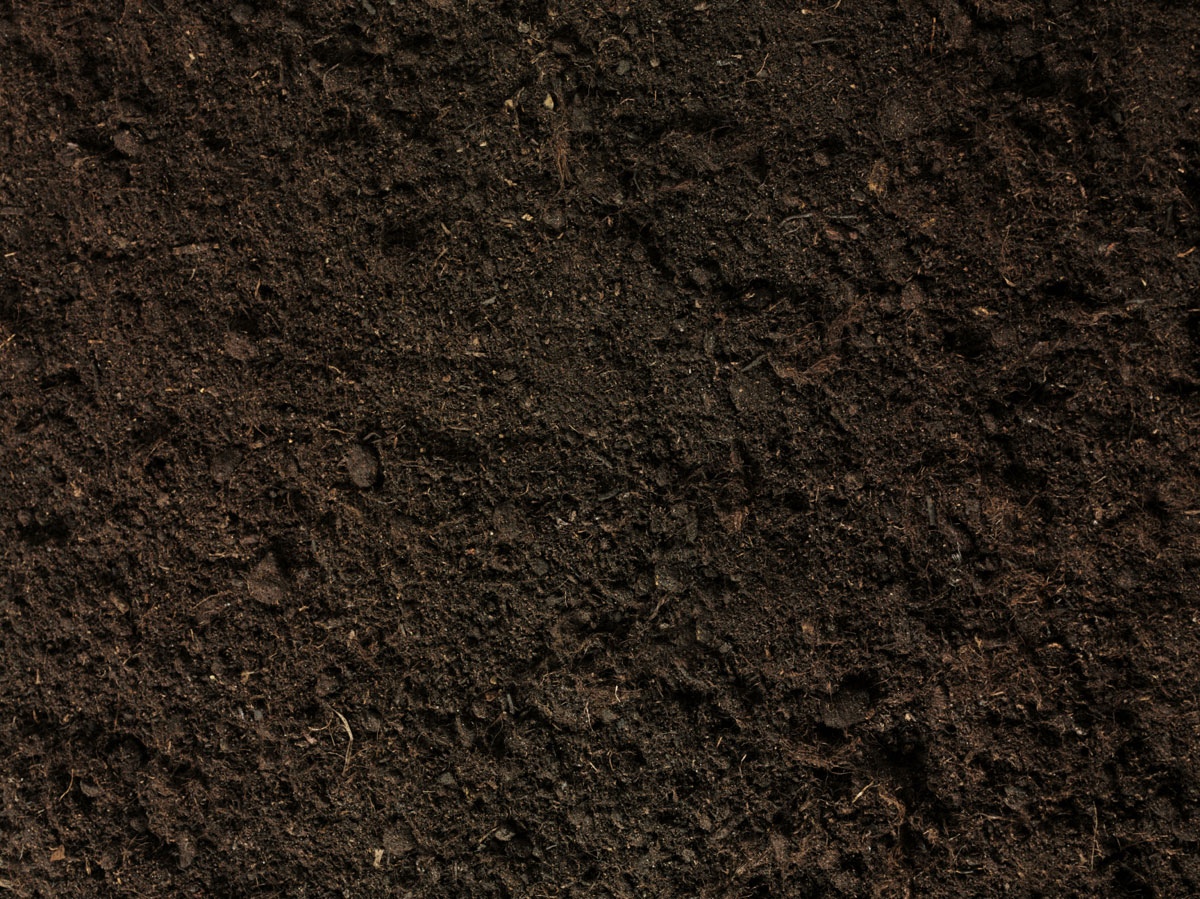
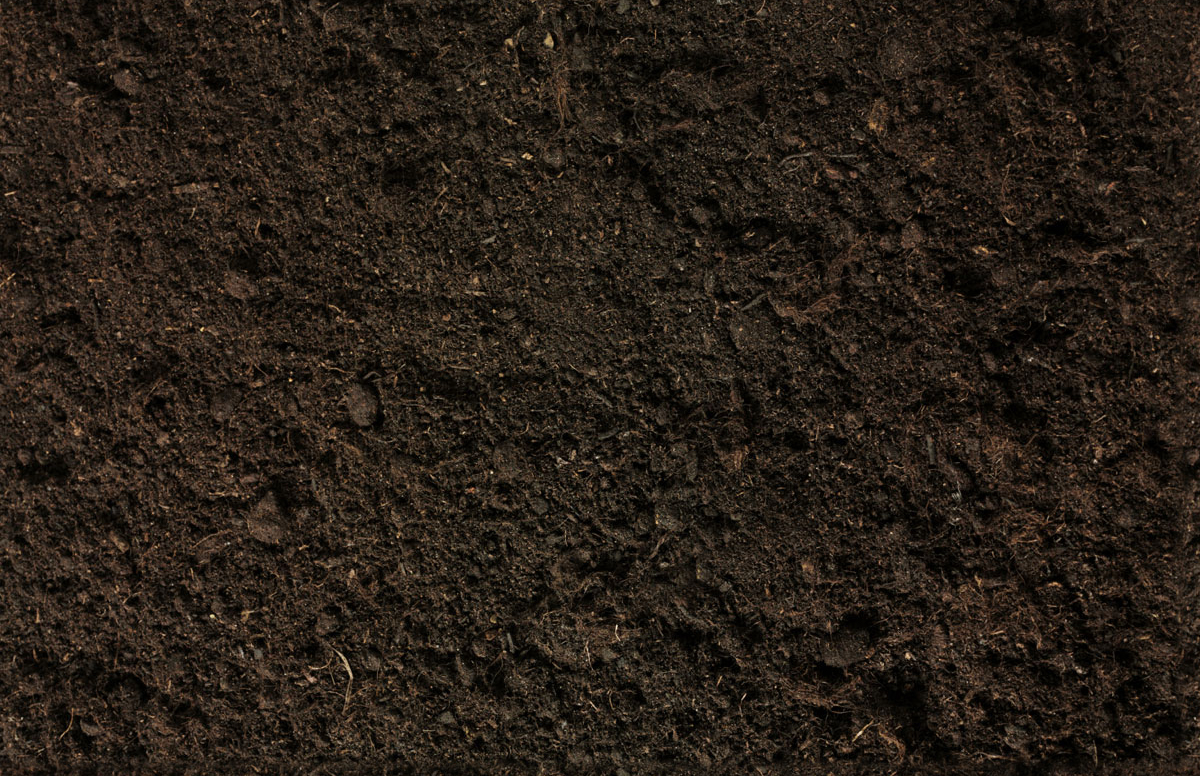
content for survivors section

diff --git a/css/style.css b/css/style.css
@@ -71,7 +71,7 @@ html {
   font-family: sans-serif;
 }
 
-.mono, pre, code, tt, body.markup-elements article.element .example .markup + .show-source, #tools .inner #all-examples #tools-examples article .syntaxhighlighter .gutter, #tools .inner #all-examples #tools-examples article .syntaxhighlighter .container code, #tools .inner #all-examples #tools-examples article .syntaxhighlighter #learn .inner code, #learn #tools .inner #all-examples #tools-examples article .syntaxhighlighter .inner code, #tools .inner #all-examples #tools-examples article .syntaxhighlighter .inner code, #tools .inner #all-examples #tools-examples article .syntaxhighlighter #survivors .inner code, #survivors #tools .inner #all-examples #tools-examples article .syntaxhighlighter .inner code, #tools .inner #all-examples #tools-examples article .syntaxhighlighter #start .inner code, #start #tools .inner #all-examples #tools-examples article .syntaxhighlighter .inner code {
+.mono, pre, code, tt, body.markup-elements article.element .example .markup + .show-source, #tools .inner #all-examples #tools-examples article .syntaxhighlighter .gutter, #tools .inner #all-examples #tools-examples article .syntaxhighlighter .container code, #tools .inner #all-examples #tools-examples article .syntaxhighlighter #learn .inner code, #learn #tools .inner #all-examples #tools-examples article .syntaxhighlighter .inner code, #tools .inner #all-examples #tools-examples article .syntaxhighlighter .inner code, #tools .inner #all-examples #tools-examples article .syntaxhighlighter #survivors .inner code, #survivors #tools .inner #all-examples #tools-examples article .syntaxhighlighter .inner code, #tools .inner #all-examples #tools-examples article .syntaxhighlighter #prepared .inner code, #prepared #tools .inner #all-examples #tools-examples article .syntaxhighlighter .inner code {
   font-family: Consolas, Menlo, Monaco, Lucida Console, Liberation Mono, DejaVu Sans Mono, Bitstream Vera Sans Mono, Courier New, monospace, serif;
 }
 
@@ -965,13 +965,13 @@ body.markup-elements article.element .example .markup + .show-source + p {
   clear: both;
 }
 
-.container, #learn .inner, #tools .inner, #survivors .inner, #start .inner {
+.container, #learn .inner, #tools .inner, #survivors .inner, #prepared .inner {
   *zoom: 1;
   margin: auto;
   width: 994px;
   max-width: 100%;
 }
-.container:after, #learn .inner:after, #tools .inner:after, #survivors .inner:after, #start .inner:after {
+.container:after, #learn .inner:after, #tools .inner:after, #survivors .inner:after, #prepared .inner:after {
   content: "\0020";
   display: block;
   height: 0;
@@ -999,7 +999,8 @@ header#page-header {
   position: relative;
   padding-top: 372px;
   padding-bottom: 248px;
-  background-image: url('images/dirt.jpg?1300250432');
+  background-image: url('images/dirt.jpg?1307509169');
+  background-position: top center;
   -moz-box-shadow: 0px 2px 2px rgba(0, 0, 0, 0.4), 0px 8px 8px rgba(0, 0, 0, 0.2);
   -webkit-box-shadow: 0px 2px 2px rgba(0, 0, 0, 0.4), 0px 8px 8px rgba(0, 0, 0, 0.2);
   -o-box-shadow: 0px 2px 2px rgba(0, 0, 0, 0.4), 0px 8px 8px rgba(0, 0, 0, 0.2);
@@ -1630,14 +1631,14 @@ header#page-header h2 {
 #tools .inner #all-examples #tools-examples article .syntaxhighlighter .toolbar {
   display: none;
 }
-#tools .inner #all-examples #tools-examples article .syntaxhighlighter .gutter .line, #tools .inner #all-examples #tools-examples article .syntaxhighlighter .container .line, #tools .inner #all-examples #tools-examples article .syntaxhighlighter #learn .inner .line, #learn #tools .inner #all-examples #tools-examples article .syntaxhighlighter .inner .line, #tools .inner #all-examples #tools-examples article .syntaxhighlighter .inner .line, #tools .inner #all-examples #tools-examples article .syntaxhighlighter #survivors .inner .line, #survivors #tools .inner #all-examples #tools-examples article .syntaxhighlighter .inner .line, #tools .inner #all-examples #tools-examples article .syntaxhighlighter #start .inner .line, #start #tools .inner #all-examples #tools-examples article .syntaxhighlighter .inner .line {
+#tools .inner #all-examples #tools-examples article .syntaxhighlighter .gutter .line, #tools .inner #all-examples #tools-examples article .syntaxhighlighter .container .line, #tools .inner #all-examples #tools-examples article .syntaxhighlighter #learn .inner .line, #learn #tools .inner #all-examples #tools-examples article .syntaxhighlighter .inner .line, #tools .inner #all-examples #tools-examples article .syntaxhighlighter .inner .line, #tools .inner #all-examples #tools-examples article .syntaxhighlighter #survivors .inner .line, #survivors #tools .inner #all-examples #tools-examples article .syntaxhighlighter .inner .line, #tools .inner #all-examples #tools-examples article .syntaxhighlighter #prepared .inner .line, #prepared #tools .inner #all-examples #tools-examples article .syntaxhighlighter .inner .line {
   height: 24px;
 }
 #tools .inner #all-examples #tools-examples article .syntaxhighlighter .gutter {
   width: 2em;
   max-width: 3em;
 }
-#tools .inner #all-examples #tools-examples article .syntaxhighlighter .container, #tools .inner #all-examples #tools-examples article .syntaxhighlighter #learn .inner, #learn #tools .inner #all-examples #tools-examples article .syntaxhighlighter .inner, #tools .inner #all-examples #tools-examples article .syntaxhighlighter .inner, #tools .inner #all-examples #tools-examples article .syntaxhighlighter #survivors .inner, #survivors #tools .inner #all-examples #tools-examples article .syntaxhighlighter .inner, #tools .inner #all-examples #tools-examples article .syntaxhighlighter #start .inner, #start #tools .inner #all-examples #tools-examples article .syntaxhighlighter .inner {
+#tools .inner #all-examples #tools-examples article .syntaxhighlighter .container, #tools .inner #all-examples #tools-examples article .syntaxhighlighter #learn .inner, #learn #tools .inner #all-examples #tools-examples article .syntaxhighlighter .inner, #tools .inner #all-examples #tools-examples article .syntaxhighlighter .inner, #tools .inner #all-examples #tools-examples article .syntaxhighlighter #survivors .inner, #survivors #tools .inner #all-examples #tools-examples article .syntaxhighlighter .inner, #tools .inner #all-examples #tools-examples article .syntaxhighlighter #prepared .inner, #prepared #tools .inner #all-examples #tools-examples article .syntaxhighlighter .inner {
   width: auto;
 }
 
@@ -1695,7 +1696,7 @@ header#page-header h2 {
 }
 
 /* START */
-#start {
+#prepared {
   position: relative;
   z-index: -54;
   -moz-box-shadow: 0px 2px 2px rgba(0, 0, 0, 0.4), 0px 8px 8px rgba(0, 0, 0, 0.2);
@@ -1704,7 +1705,7 @@ header#page-header h2 {
   box-shadow: 0px 2px 2px rgba(0, 0, 0, 0.4), 0px 8px 8px rgba(0, 0, 0, 0.2);
   background-color: #7fff00;
 }
-#start .inner {
+#prepared .inner {
   padding-top: 1.714em;
   padding-bottom: 1.714em;
   background-color: rgba(0, 0, 0, 0.25);

diff --git a/css/src/partials/_site-wide.sass b/css/src/partials/_site-wide.sass
@@ -19,7 +19,9 @@ header#page-header
   position: relative
   padding-top: 372px
   padding-bottom: 248px  
-  background-image: image_url('dirt.jpg')
+  background:
+    image: image_url('dirt.jpg')
+    position: top center
   +box-shadow(0px 2px 2px rgba($black, 0.4), 0px 8px 8px rgba($black, 0.2))
   &:before
     content: "≈≈≈≈≈≈≈≈≈≈≈≈≈≈≈≈≈≈≈≈≈≈≈≈≈≈≈≈≈≈≈≈≈≈≈≈≈≈≈≈≈≈≈≈≈≈≈≈≈≈≈≈≈≈≈≈≈≈≈≈≈≈≈≈≈≈≈≈≈≈≈≈≈≈≈≈≈≈≈≈≈≈≈≈≈≈≈≈≈≈≈≈≈≈≈≈≈≈≈≈≈≈≈≈≈≈≈≈≈≈≈≈≈≈≈≈≈≈≈≈≈≈≈≈≈≈≈≈≈≈"
@@ -516,7 +518,7 @@ $intro-width: 404px
 /* START
 // $total-cols: 3
 // @import susy
-#start
+#prepared
   position: relative
   z-index: -54
   +box-shadow(0px 2px 2px rgba($black, 0.4), 0px 8px 8px rgba($black, 0.2))

diff --git a/index.php b/index.php
@@ -65,7 +65,7 @@
       <li><a href="#learn">Learn</a></li>
       <li><a href="#tools">Tools</a></li>
       <li><a href="#survivors">Survivors</a></li>
-      <li><a href="#start">Start</a></li>
+      <li><a href="#prepared">Be Prepared</a></li>
     </ul>
   </nav>
 
@@ -325,22 +325,27 @@
       <header>
         <h1>Survivors</h1>
       </header>
-      <article class="survivor"><img src="http://dummyimage.com/364x320/ccc/fff" width=364 height=320 alt="placeholder image" />  </article>
-      <article class="survivor"><img src="http://dummyimage.com/364x320/ccc/fff" width=364 height=320 alt="placeholder image" />  </article>
-      <article class="survivor"><img src="http://dummyimage.com/364x320/ccc/fff" width=364 height=320 alt="placeholder image" />  </article>
-      <article class="survivor"><img src="http://dummyimage.com/364x320/ccc/fff" width=364 height=320 alt="placeholder image" />  </article>
-      <!-- <article class="survivor"><img src="http://dummyimage.com/364x320/ccc/fff" width=364 height=320 alt="placeholder image" />  </article>
-      <article class="survivor"><img src="http://dummyimage.com/364x320/ccc/fff" width=364 height=320 alt="placeholder image" />  --> </article>
+      <article class="survivor"><h1>Marsalis Music</h1><a href="http://marsalismucsic.com"><img src="images/marsalis.jpg" width=364 height=240 alt="marsalis music" /></a></article>
+      <article class="survivor"><h1>Jacket2 Magazine</h1><a href="http://jacket2.org/"><img src="images/jacket.jpg" width=364 height=240 alt="jacket2 magazine" /></a></article>
+      <article class="survivor"><h1>Zivtech</h1><a href="http://zivtech.com"><img src="images/zivtech.jpg" width=364 height=240 alt="zivtech" /></a></article>
+      <article class="survivor"><h1>Birds &amp; Monkeys</h1><a href="http://birdsandmonkeys.com"><img src="images/birds.jpg" width=364 height=240 alt="birds and monkeys" /></a></article>
     </div>
   </section>
 
-  <section id="start">
-    <div class="inner">
+  <section id="prepared">
+    <article class="inner">
       <header>
-        <h1>Start</h1>
+        <h1>Be Prepared</h1>
       </header>
-      <p>Download or Contribute on <a href="https://github.com/canarymason/The-Coding-Designers-Survival-Kit">Github</a></p>
-    </div>
+      <p class="download">Download or Contribute on <a href="https://github.com/canarymason/The-Coding-Designers-Survival-Kit">Github</a></p>
+      <aside>
+        <h2>Social</h2>
+        <ul>
+          <li><a href="http://twitter.com/canarymason">Hit me up on Twitter</a></li>
+          <li><a href="mailto:?subject=thecodingdesigner.com">Email this</a></li>
+        </ul>
+      </aside>
+    </article>
   </section>
   
   
